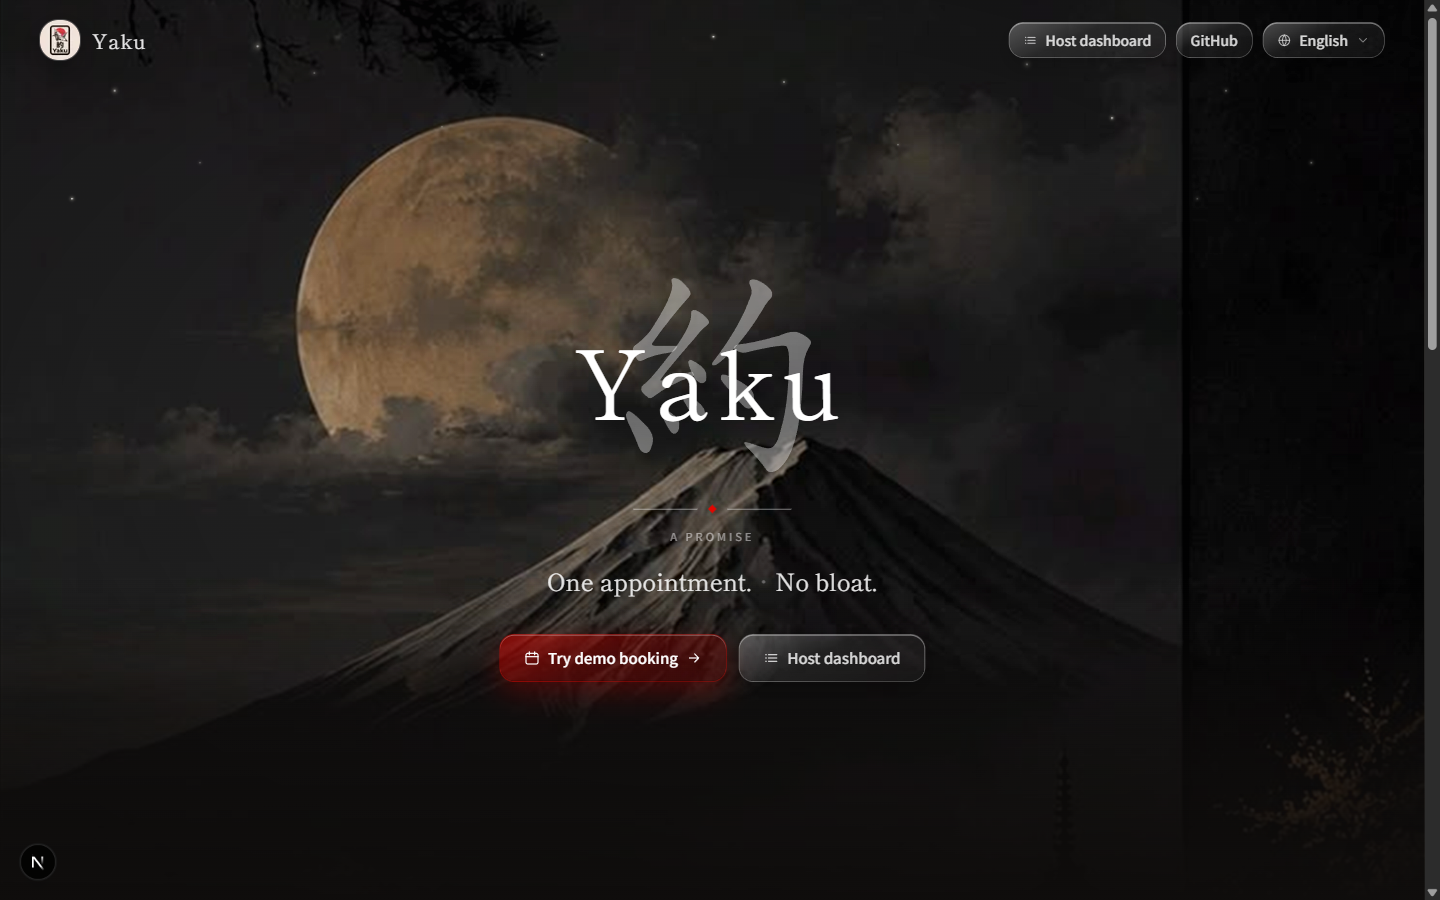
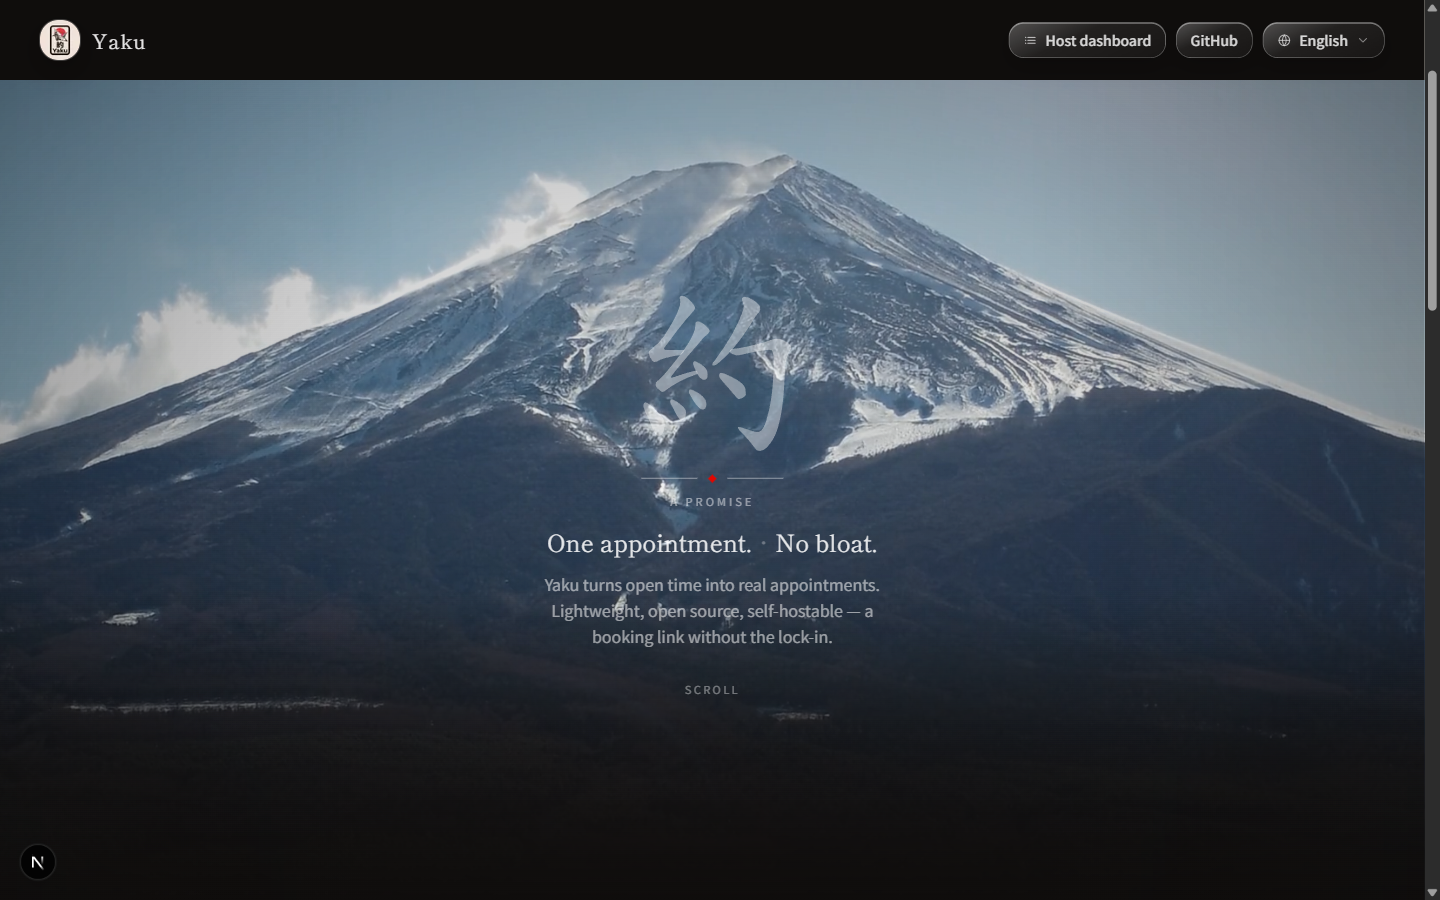
Refresh README landing copy and EN cinematic screenshots.
Replace Fuji/Spline preview language with cinematic chapters and capture intro + mid frames for docs.

diff --git a/README.md b/README.md
@@ -31,13 +31,13 @@ Lightweight, open source, self-hostable. Local-first for the demo; backend can m
 
 ### Landing
 
-Atmospheric Fuji hero with the 約 brand and a clear path into the demo.
+Cinematic scroll story — intro brand lockup, mid product sights, and a CTA chapter into the demo.
 
-![Yaku hero — Fuji night with 約 brand lockup](docs/screenshots/hero-en.png)
+![Yaku cinematic intro — brand lockup](docs/screenshots/hero-en.png)
 
-Feature carousel on the landing page (Spline scene + UI cards):
+Mid chapter with product story and feature sights:
 
-![Yaku feature carousel — Series and integrations](docs/screenshots/calendar-en.png)
+![Yaku cinematic mid — product sights](docs/screenshots/calendar-en.png)
 
 ### Guest booking
 
@@ -69,7 +69,7 @@ Local auth for the demo host account:
 
 Early MVP — default UI language **English** (DE / JA via switcher):
 
-- **Landing** — hero + calendar preview
+- **Landing** — cinematic scroll chapters (intro / mid / CTA)
 - **Guest booking** (`/b/demo`) — event types, guest timezone, weekly series option
 - **Guest manage** (`/b/demo/m/[bookingId]`) — cancel / reschedule + `.ics` download
 - **Local auth** (`/login`, `/signup`) — demo: `demo@yaku.app` / `yaku123`
